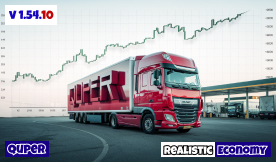
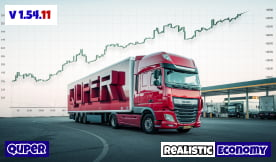
upd 1.54.11

diff --git a/_01_parse-html-price.js b/_01_parse-html-price.js
@@ -1,0 +1,71 @@
+const fs = require("fs");
+const axios = require("axios");
+const cheerio = require("cheerio");
+
+// URL к твоему локальному серверу
+const url =
+  "http://127.0.0.1:5500/Diesel%20prices%20around%20the%20world,%2019-May-2025%20_%20GlobalPetrolPrices.com.html";
+
+// Путь для сохранения JSON
+const outputFile = "./diesel_prices.json";
+
+async function fetchAndParse() {
+  try {
+    // Загружаем HTML
+    const { data } = await axios.get(url);
+    const $ = cheerio.load(data);
+
+    // Парсим данные с текущей страницы
+    const names = $(".graph_outside_link")
+      .map((i, el) => $(el).text().trim())
+      .get();
+
+    const prices = $(
+      '#graphic [style="position: absolute; top: 2px; left: 7px; height: 15px; color: #000000;"]',
+    )
+      .map((i, el) => parseFloat($(el).text().trim()))
+      .get();
+
+    // Если количество имён и цен не совпадает — ошибка
+    if (names.length !== prices.length) {
+      console.warn("⚠ Количество имён и цен не совпадает");
+    }
+
+    // Формируем мапу новых данных { name: price }
+    const newData = {};
+    names.forEach((name, i) => {
+      newData[name] = prices[i];
+    });
+
+    // Читаем старый JSON, если он есть
+    let existingData = [];
+    if (fs.existsSync(outputFile)) {
+      const raw = fs.readFileSync(outputFile, "utf-8");
+      existingData = JSON.parse(raw);
+    }
+
+    // Обновляем цены в существующих записях
+    const updatedData = existingData.map((entry) => {
+      const newName = entry.name; // не меняем имя
+      const newPrice = newData[newName]; // ищем новую цену по оригинальному имени
+
+      return {
+        ...entry,
+        price: newPrice !== undefined ? newPrice : entry.price,
+      };
+    });
+
+    // Сохраняем результат
+    fs.writeFileSync(outputFile, JSON.stringify(updatedData, null, 2), "utf-8");
+    console.log(
+      `✅ Обновлено ${updatedData.length} записей. Сохранено в ${outputFile}`,
+    );
+  } catch (error) {
+    console.error(
+      "❌ Ошибка при загрузке или парсинге страницы:",
+      error.message,
+    );
+  }
+}
+
+fetchAndParse();
